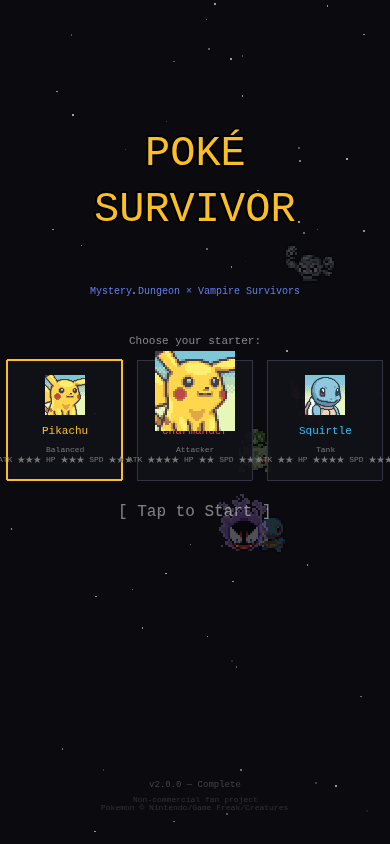
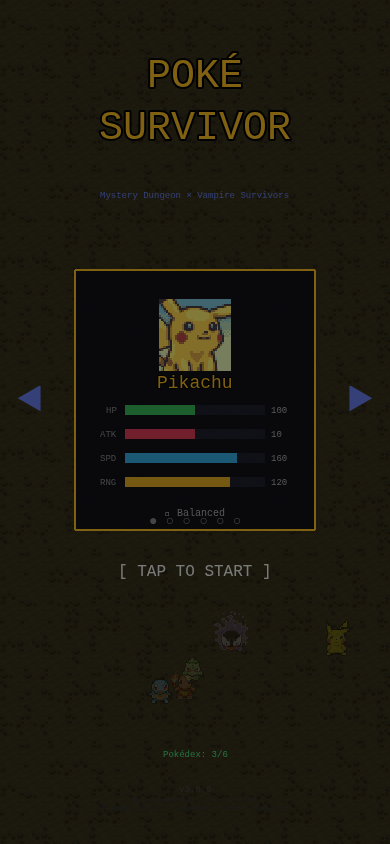
Update screenshots with new starter UI, remove dodge references
- New title screen: swipe card UI with stat bars
- New gameplay: Tiny Woods dungeon background, fixed joystick
- Removed dodge roll description from game intro and changelog

diff --git a/index.html b/index.html
@@ -313,7 +313,7 @@
     <div class="section-label">chapter 01 — 컨셉</div>
     <h2>포켓몬 불가사의 던전의 세계에서<br>뱀서라이크를 만들면 어떨까?</h2>
     <p><span class="highlight">포켓몬 불가사의 던전</span> 시리즈의 사랑스러운 도트 스프라이트와 <span class="red">Vampire Survivors</span>의 중독성 있는 자동 전투 루프. 두 장르가 만나는 지점에서 태어난 모바일 웹 팬게임입니다.</p>
-    <p>화면 왼쪽을 드래그해서 이동하고, 공격은 자동으로 발사됩니다. 오른쪽을 탭하면 무적 프레임이 있는 회피 구르기를 할 수 있습니다. 경험치 보석을 모아 레벨을 올리면 전투 능력을 강화하는 퍽을 선택할 수 있습니다.</p>
+    <p>화면 어디든 드래그해서 이동하고, 공격은 자동으로 발사됩니다. 경험치 보석을 모아 레벨을 올리면 전투 능력을 강화하는 퍽을 선택할 수 있습니다.</p>
     <div class="screenshot-gallery">
       <div class="screenshot-frame">
         <img src="images/ss-title.png" alt="타이틀 화면 — 스타터 포켓몬 선택">
@@ -441,7 +441,7 @@
       <div class="pipeline-step"><div class="pipeline-line"><div class="pipeline-dot"></div><div class="pipeline-connector"></div></div><div class="pipeline-content"><div class="pipeline-title">2~3단계 — 보스와 군단 시스템</div><div class="pipeline-desc">5분 사이클 루프와 보스전을 추가하고, 파티가 군단으로 압축되는 핵심 메카닉을 완성했습니다.</div></div></div>
       <div class="pipeline-step"><div class="pipeline-line"><div class="pipeline-dot"></div><div class="pipeline-connector"></div></div><div class="pipeline-content"><div class="pipeline-title">4~6단계 — 실제 스프라이트 적용</div><div class="pipeline-desc">원(circle)에서 포켓몬 불가사의 던전 스프라이트로 교체했습니다. 9종의 포켓몬, 초상화, 타이틀 화면을 추가했습니다.</div></div></div>
       <div class="pipeline-step"><div class="pipeline-line"><div class="pipeline-dot gold"></div><div class="pipeline-connector"></div></div><div class="pipeline-content"><div class="pipeline-title">20단계 — 버전 1.0.0 출시</div><div class="pipeline-desc">업적 13종, 일시정지 메뉴, 진화 시스템, 미니맵, 엘리트 적 등 50개 이상의 기능을 갖춘 첫 번째 완성 버전입니다.</div></div></div>
-      <div class="pipeline-step"><div class="pipeline-line"><div class="pipeline-dot"></div><div class="pipeline-connector"></div></div><div class="pipeline-content"><div class="pipeline-title">21~26단계 — 버전 2.0.0</div><div class="pipeline-desc">스타터 선택, 전투 퍽 시스템, 무한 모드, 회피 구르기, 원거리 적, 미니보스, 튜토리얼을 추가했습니다.</div></div></div>
+      <div class="pipeline-step"><div class="pipeline-line"><div class="pipeline-dot"></div><div class="pipeline-connector"></div></div><div class="pipeline-content"><div class="pipeline-title">21~26단계 — 버전 2.0.0</div><div class="pipeline-desc">스타터 선택, 전투 퍽 시스템, 무한 모드, 원거리 적, 미니보스, 튜토리얼을 추가했습니다.</div></div></div>
       <div class="pipeline-step"><div class="pipeline-line"><div class="pipeline-dot"></div><div class="pipeline-connector"></div></div><div class="pipeline-content"><div class="pipeline-title">27단계 — 실제 포켓몬 오디오와 이펙트</div><div class="pipeline-desc">자체 생성 오디오를 실제 포켓몬 불가사의 던전 음악 8곡과 효과음 9종으로 교체하고, 타입별 공격 이펙트를 적용했습니다.</div></div></div>
       <div class="pipeline-step"><div class="pipeline-line"><div class="pipeline-dot red"></div><div class="pipeline-connector" style="min-height:0"></div></div><div class="pipeline-content"><div class="pipeline-title">28단계 — 스프라이트시트 공격 시스템</div><div class="pipeline-desc">개별 PNG 543장을 51개 스프라이트시트로 패킹하고, Phaser의 generateFrameNumbers()를 활용한 정석 스프라이트 애니메이션으로 전환. 18가지 타입, 공격 포즈 애니메이션 추가.</div></div></div>
     </div>
